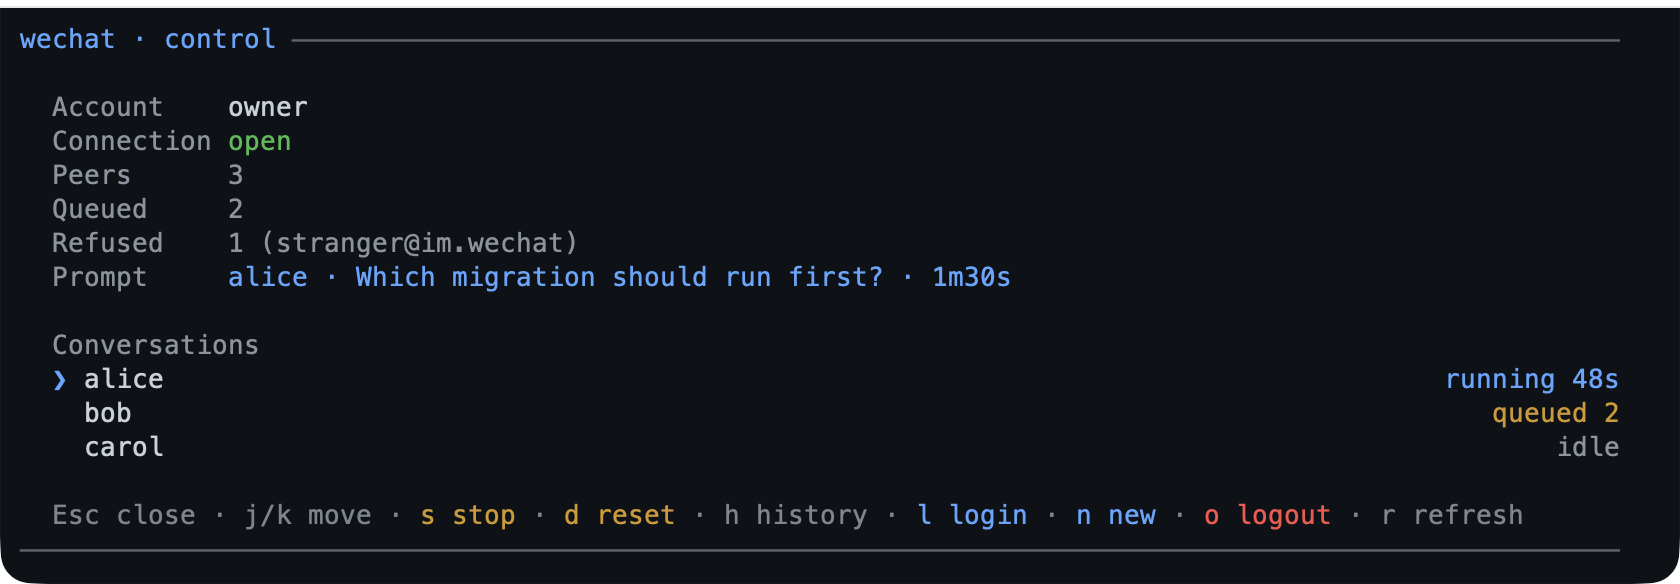
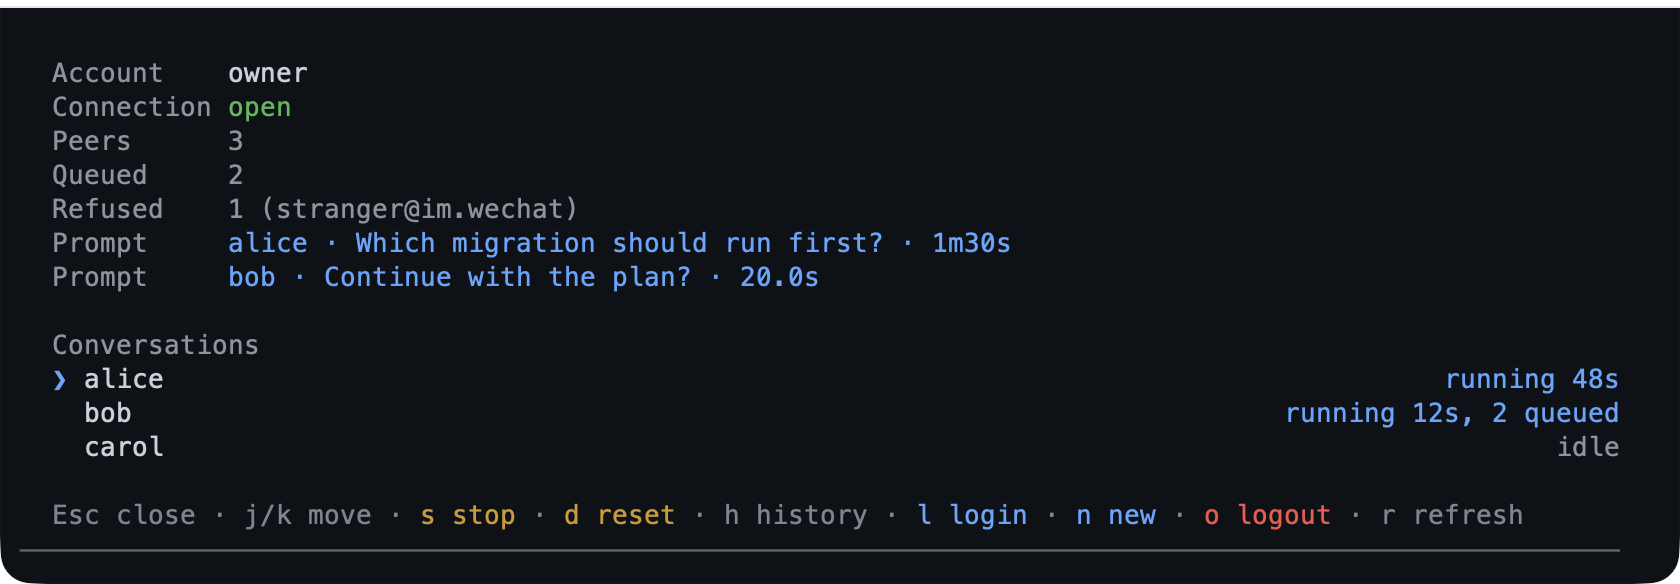
docs(wechat): re-capture the control screen with two prompts
The screen gained a prompt row per waiting peer when two turns started running at
once, so the old capture showed a surface the code no longer draws: one prompt
line, one running peer, and a 16-row frame. The new frame is 17 rows and shows
alice and bob both running with a question each, carol idle, and bob's two queued
messages behind him.

The README's alt text described the old frame; it now names the two prompt rows
and the two running peers, which is what a screen reader would miss otherwise.

diff --git a/extensions/wechat/README.md b/extensions/wechat/README.md
@@ -117,7 +117,7 @@ polling. `l` logs in or reconnects, `n` starts a new session, `o` logs out,
 actions and the only route outside the TUI; an unknown subcommand reports the
 valid ones.
 
-<img src="../../assets/wechat.png" alt="The /wechat control screen: account and an open connection, peer, queued, refused, and waiting-prompt rows, three conversation rows showing running, queued, and idle states, and the key hints" width="100%">
+<img src="../../assets/wechat.png" alt="The /wechat control screen: account and an open connection, peer, queued, and refused rows, one waiting-prompt row per peer that was asked a question, three conversation rows showing two running peers with one queued behind them and an idle peer, and the key hints" width="100%">
 
 Pause is per runtime and keeps the account and peer sessions: a running turn
 may finish and reply, a waiting prompt is withdrawn with the timeout notice,
